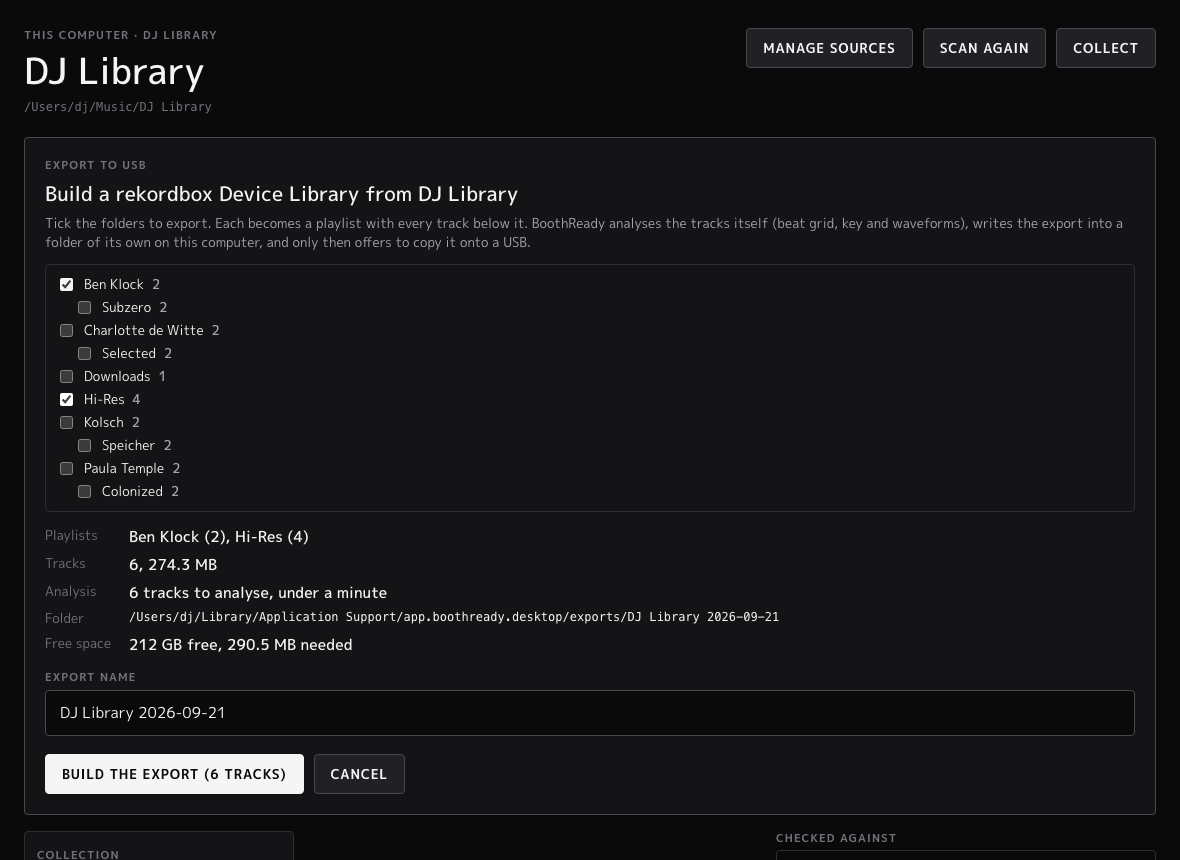
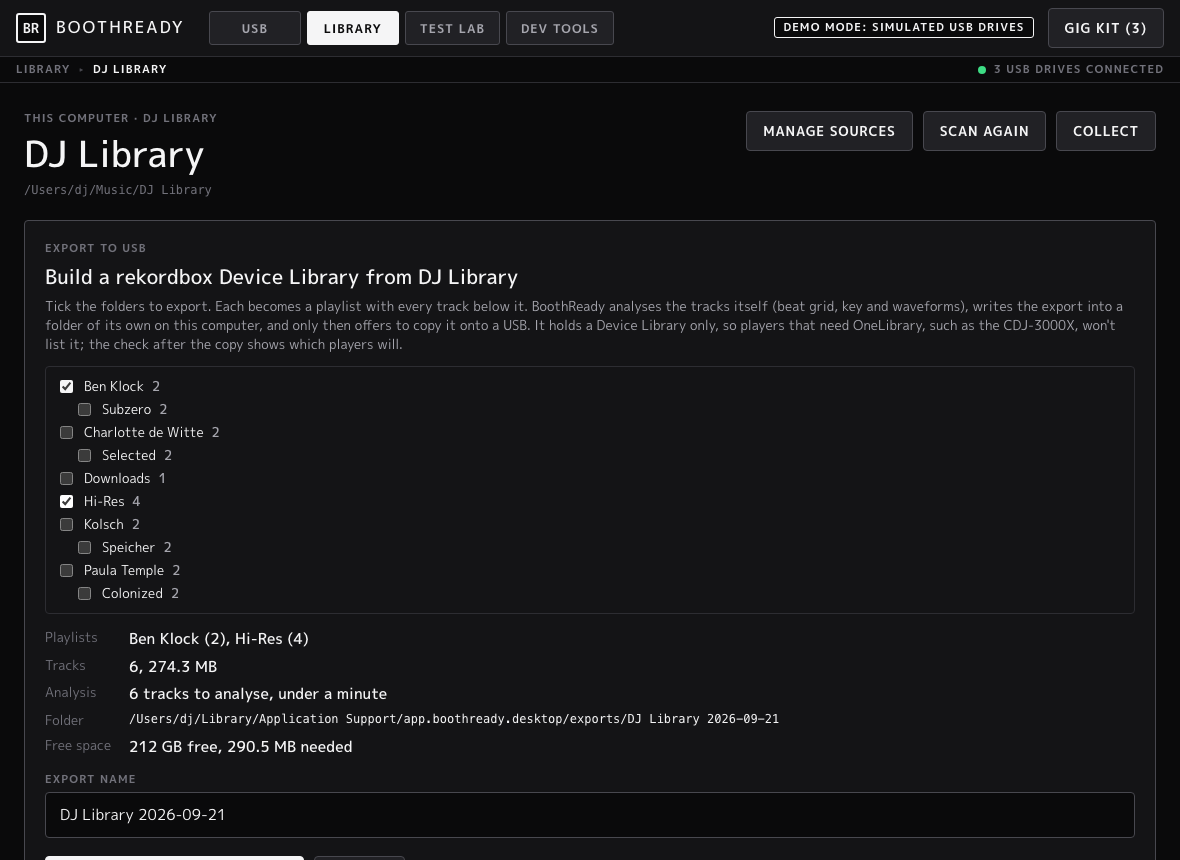
Fix what the demo and Drive runs of Export to USB turned up
Running the flow in the desktop app, in demo mode and against the Drive
library, showed that ticking a folder deep in a long list scrolled the
list back to the top, that Stop gave no sign of being pressed while the
current track finished, that a second export on the same day suggested a
taken name, and that the finished panel only mentioned failed analyses
in its notes. Scrolling boxes now keep their place across renders, the
ticked folder is scrolled into view, the panel says it is stopping,
suggested names take the next free number, and the panel says when
tracks could not be analysed and that the export holds a Device Library
only.

The export docs, the library sources page and the devlog describe the
app flow and both runs, with new screenshots.

diff --git a/app/src/library.ts b/app/src/library.ts
@@ -68,6 +68,8 @@ const L = {
     planning: boolean;
     name: string;
     running: boolean;
+    /** Stop was pressed; the writer stops after the track it is on. */
+    stopping: boolean;
     progress: LibraryExportProgress | null;
     error: string | null;
     done: LocalExport | null;
@@ -433,6 +435,7 @@ async function runExport() {
   const x = L.exp;
   if (!x || x.running || !x.plan) return;
   x.running = true;
+  x.stopping = false;
   x.error = null;
   x.progress = null;
   L.host.render();
@@ -442,6 +445,7 @@ async function runExport() {
     x.error = String(e);
   }
   x.running = false;
+  x.stopping = false;
   x.progress = null;
   await refreshLibrary();
   L.host.render();
@@ -598,17 +602,25 @@ export async function libraryAct(a: string, id: string): Promise<boolean> {
     case "library-export-open": {
       // The folder shown in the browser starts ticked; the whole source has no folder to tick.
       const folders = new Set<string>(L.folder ? [L.folder] : []);
-      L.exp = { sourceId: id, folders, plan: null, planning: false, name: "", running: false, progress: null, error: null, done: null };
+      L.exp = { sourceId: id, folders, plan: null, planning: false, name: "", running: false, stopping: false, progress: null, error: null, done: null };
       L.collect = null;
       await loadFolders(id);
       await planExport();
       host.render();
+      // Bring the ticked folder into view inside the folder list.
+      const box = document.querySelector<HTMLElement>('[data-keep-scroll="export-folders"]');
+      const ticked = box?.querySelector<HTMLElement>("input:checked")?.closest<HTMLElement>("label");
+      if (box && ticked) box.scrollTop += ticked.getBoundingClientRect().top - box.getBoundingClientRect().top - 8;
       return true;
     }
     case "library-export-start":
       await runExport();
       return true;
     case "library-export-stop":
+      if (L.exp?.running) {
+        L.exp.stopping = true;
+        host.render();
+      }
       await host.api.libraryCancelExport();
       return true;
     case "library-export-close":
@@ -970,8 +982,12 @@ function exportPanel(s: LibrarySource): Raw {
   if (!x || x.sourceId !== s.id) return html``;
   if (x.done) {
     const d = x.done;
+    const analysed = Math.floor(d.analysis_files / 3);
     return html`<section class="card export" aria-live="polite">
-      <div class="banner ok"><div style="flex:1"><b>Export built: ${plural(d.tracks, "track")} in ${plural(d.playlists, "playlist")}${d.analysis_files ? html`, with beat grids and waveforms for ${num(d.analysis_files / 3)} of them` : ""}.</b> It is on this computer as <span class="source-path">${d.path}</span>.</div></div>
+      <div class="banner ok"><div style="flex:1"><b>Export built: ${plural(d.tracks, "track")} in ${plural(d.playlists, "playlist")}${analysed ? html`, with beat grids and waveforms for ${analysed === d.tracks ? "all of them" : `${num(analysed)} of them`}` : ""}.</b> It is on this computer as <span class="source-path">${d.path}</span>.</div></div>
+      ${analysed < d.tracks
+        ? html`<div class="banner warn"><div>${analysed ? `${plural(d.tracks - analysed, "track")} couldn't be analysed` : "No track could be analysed"}, so players show no waveform or beat grid for ${analysed ? "them" : "any of them"}. The notes below say why.</div></div>`
+        : ""}
       <h2>Next: put it on a USB</h2>
       <p class="small muted">Open the USB tab and plug in a prepared USB. BoothReady offers to copy this export onto it, asks you to confirm that exact drive, and then reads every file back to check the copy. Nothing has been written to a USB yet.</p>
       ${d.warnings.length ? html`<details class="export-warnings"><summary>${plural(d.warnings.length, "note")}</summary><ul>${d.warnings.map((w) => html`<li>${w}</li>`)}</ul></details>` : ""}
@@ -992,7 +1008,7 @@ function exportPanel(s: LibrarySource): Raw {
       <div class="eyebrow">Building ${x.name}</div>
       <h2>${g ? EXPORT_PHASE[g.phase] : "Starting"}${g?.current ? html`<span class="muted export-current">: ${g.current}</span>` : ""}</h2>
       <div class="bar" role="progressbar" aria-valuemin="0" aria-valuemax="100" aria-valuenow="${pct}"><span style="width:${pct}%"></span></div>
-      <div class="collect-progress"><span>${g ? html`${num(Math.min(g.done + (g.phase === "database" || g.phase === "install" ? 0 : 1), total))} of ${plural(total, "track")}${eta ? html` · ${eta} left` : ""}` : "Reading the folders."}</span><button class="btn" data-act="library-export-stop">Stop</button></div>
+      <div class="collect-progress"><span>${g ? html`${num(Math.min(g.done + (g.phase === "database" || g.phase === "install" ? 0 : 1), total))} of ${plural(total, "track")}${eta ? html` · ${eta} left` : ""}` : "Reading the folders."}</span>${x.stopping ? html`<span class="muted">Stopping after this track.</span>` : html`<button class="btn" data-act="library-export-stop">Stop</button>`}</div>
       ${p?.cloud_only ? html`<p class="small muted">Your cloud app downloads ${plural(p.cloud_only, "track")} as they are read, so this step depends on your connection.</p>` : ""}
       <p class="small muted">Each track that hasn't been analysed before takes about ${roughTime(6).replace("under a minute", "six seconds")}. Stopping leaves nothing behind.</p>
     </section>`;
@@ -1003,8 +1019,8 @@ function exportPanel(s: LibrarySource): Raw {
   return html`<section class="card export">
     <div class="eyebrow">Export to USB</div>
     <h2>Build a rekordbox Device Library from ${s.name}</h2>
-    <p class="small muted">Tick the folders to export. Each becomes a playlist with every track below it. BoothReady analyses the tracks itself (beat grid, key and waveforms), writes the export into a folder of its own on this computer, and only then offers to copy it onto a USB.</p>
-    <div class="export-folders" role="group" aria-label="Folders to export">
+    <p class="small muted">Tick the folders to export. Each becomes a playlist with every track below it. BoothReady analyses the tracks itself (beat grid, key and waveforms), writes the export into a folder of its own on this computer, and only then offers to copy it onto a USB. It holds a Device Library only, so players that need OneLibrary, such as the CDJ-3000X, won't list it; the check after the copy shows which players will.</p>
+    <div class="export-folders" role="group" aria-label="Folders to export" data-keep-scroll="export-folders">
       ${folders.length
         ? folders.map((f, i) => html`<label class="check-row export-folder" style="--depth:${f.depth}"><input id="library-export-folder-${i}" type="checkbox" data-folder="${f.path}" ${x.folders.has(f.path) ? "checked" : ""} ${x.running ? "disabled" : ""}><span class="grow">${f.name}</span><b>${num(f.tracks)}</b></label>`)
         : html`<p class="small muted">This source has no folders to export as playlists.</p>`}
@@ -1015,7 +1031,7 @@ function exportPanel(s: LibrarySource): Raw {
           <dt>Playlists</dt><dd>${p.playlists.map((l) => `${l.name} (${num(l.tracks)})`).join(", ")}</dd>
           <dt>Tracks</dt><dd>${num(p.tracks)}, ${gb(p.bytes)}${p.left_out ? html` · <span class="muted">${plural(p.left_out, "file")} left out: damaged, not audio or a format a Device Library can't hold</span>` : ""}</dd>
           ${p.cloud_only ? html`<dt>From the cloud</dt><dd>${num(p.cloud_only)}, ${gb(p.cloud_only_bytes)}. Your cloud app downloads them as they are read.</dd>` : ""}
-          <dt>Analysis</dt><dd>${p.to_analyse ? html`${plural(p.to_analyse, "track")} to analyse, ${roughTime(p.estimate_secs)}` : "Nothing to analyse"}${p.analysed ? html` <span class="muted">· ${num(p.analysed)} already analysed for an earlier export</span>` : ""}</dd>
+          <dt>Analysis</dt><dd>${p.to_analyse ? html`${plural(p.to_analyse, "track")} to analyse, ${roughTime(p.estimate_secs)}` : "Nothing to analyse"}${p.analysed ? html` <span class="muted">· ${num(p.analysed)} already analysed on this computer</span>` : ""}</dd>
           <dt>Folder</dt><dd class="source-path">${p.destination}</dd>
           <dt>Free space</dt><dd>${p.free_bytes === null ? "unknown" : html`${gb(p.free_bytes)} free, ${gb(p.needed_bytes)} needed`}</dd>
         </dl>

diff --git a/app/src/app.ts b/app/src/app.ts
@@ -1666,8 +1666,15 @@ function body(): Raw {
 export function render() {
   const active = document.activeElement as HTMLElement | null;
   const focusId = active?.id;
+  // Scrolling boxes inside a screen keep their place across a re-render,
+  // so ticking a folder deep in a long list doesn't jump back to the top.
+  const scrolled = [...root().querySelectorAll<HTMLElement>("[data-keep-scroll]")].map((el) => [el.dataset.keepScroll, el.scrollTop] as const);
   root().innerHTML = shell(body()).s;
-  if (focusId) document.getElementById(focusId)?.focus();
+  for (const [key, top] of scrolled) {
+    const el = root().querySelector<HTMLElement>(`[data-keep-scroll="${key}"]`);
+    if (el) el.scrollTop = top;
+  }
+  if (focusId) document.getElementById(focusId)?.focus({ preventScroll: true });
   const search = document.getElementById("hwsearch") as HTMLInputElement | null;
   if (search && focusId === "hwsearch") {
     search.setSelectionRange(search.value.length, search.value.length);

diff --git a/app/src/mock.ts b/app/src/mock.ts
@@ -290,7 +290,10 @@ export async function createMockApi(): Promise<Api> {
     const sum = (list: LibraryTrack[]) => list.reduce((n, t) => n + t.size, 0);
     const online = unique.filter((t) => t.state === "cloud_only");
     const done = unique.filter((t) => analysed.has(`${id}|${t.path}`)).length;
-    const clean = (name.trim() || `${origin.name} 2026-09-21`).replace(/[^\p{L}\p{N} \-_().,&']/gu, "-").trim();
+    const tidy = (n: string) => n.replace(/[^\p{L}\p{N} \-_().,&']/gu, "-").trim();
+    // An empty name asks for a suggestion, numbered past the exports that took it.
+    let clean = tidy(name.trim() || `${origin.name} 2026-09-21`);
+    if (!name.trim()) for (let n = 2; exportsMade.some((e) => e.name === clean); n++) clean = tidy(`${origin.name} 2026-09-21 ${n}`);
     if (!clean) throw new Error("Give the export a name.");
     return {
       plan: {

diff --git a/app/src-tauri/src/export.rs b/app/src-tauri/src/export.rs
@@ -173,13 +173,13 @@ fn prepare(app: &AppHandle, state: &AppState, request: &ExportRequestDto) -> Res
         .collect();
     let collected = collect_from_lists(&lists).map_err(describe)?;
     let source_name = library::name_of_source(&selection.source);
-    let typed = if request.name.trim().is_empty() {
-        format!("{source_name} {}", library::date_of(now_unix()))
+    let root = exports_root(app, state)?;
+    let name = if request.name.trim().is_empty() {
+        suggested_name(&root, &format!("{source_name} {}", library::date_of(now_unix())))?
     } else {
-        request.name.clone()
+        library::collection_folder_name(&request.name)?
     };
-    let name = library::collection_folder_name(&typed)?;
-    let destination = exports_root(app, state)?.join(&name);
+    let destination = root.join(&name);
     let cache = analysis_cache_dir(app, state)?;
     let analysed = cached_analyses(&cache, &collected.tracks, Analysis::Normal) as u32;
     let tracks = collected.tracks.len() as u32;
@@ -217,6 +217,19 @@ fn prepare(app: &AppHandle, state: &AppState, request: &ExportRequestDto) -> Res
         free_bytes: space.map(|s| s.free_bytes),
     };
     Ok(Prepared { plan, selection, collected, destination, cache })
+}
+
+/// A free folder name under `root` for a suggested export name: the name
+/// itself, or the name followed by 2, 3 and so on when earlier exports took it.
+fn suggested_name(root: &Path, base: &str) -> Res<String> {
+    let base = library::collection_folder_name(base)?;
+    if !root.join(&base).exists() {
+        return Ok(base);
+    }
+    (2..1000)
+        .map(|n| format!("{base} {n}"))
+        .find(|name| !root.join(name).exists())
+        .ok_or_else(|| "Give the export a name.".to_string())
 }
 
 /// A scan's relative path as a path of the operating system.
@@ -376,5 +389,9 @@ mod tests {
         assert_eq!(listed[0].tracks, 3);
         assert!(list_exports(&tmp.path().join("missing")).is_empty());
         assert_eq!(rel_path("a/b/c.mp3"), PathBuf::from("a").join("b").join("c.mp3"));
+        assert_eq!(suggested_name(tmp.path(), "Fresh 2026-10-19").unwrap(), "Fresh 2026-10-19");
+        assert_eq!(suggested_name(tmp.path(), "Newer").unwrap(), "Newer 2", "a taken name gets a number");
+        std::fs::create_dir_all(tmp.path().join("Newer 2")).unwrap();
+        assert_eq!(suggested_name(tmp.path(), "Newer").unwrap(), "Newer 3");
     }
 }

diff --git a/docs/DEVLOG.md b/docs/DEVLOG.md
@@ -1,8 +1,34 @@
 # Devlog
 
-## 2026-10-19: Export to USB in the desktop app (branch claude/export-to-usb, in progress)
+## 2026-10-19: Export to USB in the desktop app (branch claude/export-to-usb)
 
-- The Library screen's source view gets an **Export to USB** panel: tick folders of a source (each becomes a playlist named after the folder), see the track count, the cloud-only count, files left out, the analysis estimate (six seconds per track not yet analysed, with an analysis cache under the app's data folder so a second export of the same tracks has nothing to analyse), the export folder and the free space, then build the Device Library into a fresh folder under `exports/` in the app's data folder with progress and a stop button.
-- The USB tab's export step offers finished exports to the copy flow next to verified drives (`export:<name>` sources). The copy uses the same confirmation and erase rules as before and hands over to verification.
-- Screenshots: `docs/screenshots/30-export-plan.png`, `32-export-done.png`, `33-export-copy-offer.png` (browser mock). `npm run check-ui` passes 599 checks including the new export screens.
-- Not yet done when this note was written: exercising demo mode in the Tauri window, the real export from the Drive folder, clippy on aarch64 and x86_64, cargo deny, and the pull request.
+### What was built
+
+- The Library screen's source view gets an **Export to USB** panel. Ticked folders become playlists named after them. Before anything is written, the panel shows the track count, how many tracks the cloud client will download, files left out, the analysis estimate (six seconds per track still to analyse), the export folder and the free space. The build goes into a fresh folder under `exports/` in the app's data folder, with progress and a stop button.
+- Analyses are cached under `analysis-cache/` next to the exports, so a second export of the same tracks, or a rerun after a stop, does not analyse them again.
+- The USB tab's export step offers finished exports to the copy flow next to verified drives. The copy keeps the existing plan, erase requirement and confirmation, and hands over to full verification.
+- `boothready export-pdb` and the app share the playlist collector and the removable-drive guard, now in `boothready_core::export::playlists`.
+
+### Demo mode in the desktop window
+
+The DJ Library demo source was exported with three ticked folders: Ben Klock, Kolsch and Downloads. The plan listed the empty Downloads playlist and counted its damaged file as left out. The build finished, and the copy offer appeared on the simulated Kingston once it had been rebuilt as MBR and FAT32. Copying five files was followed by a full verification that read the Device Library back ([34-demo-export-verified.png](screenshots/34-demo-export-verified.png)).
+
+The demo tracks are synthetic files under a second long, so the analyser declined every one ("beat analysis requires at least four seconds of audio"). The finished panel only listed this in its notes. It now says plainly when some or all tracks could not be analysed.
+
+### Real run against the Drive library
+
+The real app ran against the Google Drive `Music` source. It exported `DJ/TechnoRemix`: 8 tracks, all still online, 225 MB, into `exports/Music 2026-10-19`. No USB was written. Two sticks were plugged in and left alone.
+
+- A first attempt with the debug build analysed about one track a minute while CPU-bound. Stop finished the current track, removed the staging and export folders and kept the two analyses. The rerun with a release build used those two from the cache. It analysed the other six and downloaded them from Drive in about a minute. The six-second estimate holds for release builds only.
+- `boothready check-dir` on the result read a Device Library with 8 tracks and 24 analysis files. Library and audio passed for the CDJ-2000, CDJ-2000NXS2, CDJ-3000 and XDJ-XZ. The CDJ-3000X, CDJ-1500X and XDJ-AZ fail the library check because they need OneLibrary, which this writer does not produce. The panel now says the export holds a Device Library only.
+
+### Fixes the runs turned up
+
+- Ticking a folder deep in Jommi's folder list re-rendered the panel and scrolled the list back to the top. Scrolling boxes marked `data-keep-scroll` now keep their place across renders. Opening the panel from a folder in the tree scrolls that ticked folder into view.
+- Stop gave no sign it had been pressed while the current track finished. The panel now says "Stopping after this track."
+- A second export on the same day suggested a name that was already taken, so Build stayed disabled until the name was changed. Suggested names now take the next free number.
+- The plan's cache note said "already analysed for an earlier export", which was wrong after a stopped run. It now says "already analysed on this computer".
+
+### Screenshots
+
+These come from the browser mock: [30-export-plan.png](screenshots/30-export-plan.png), [31-export-building.png](screenshots/31-export-building.png), [32-export-done.png](screenshots/32-export-done.png), [33-export-copy-offer.png](screenshots/33-export-copy-offer.png). [34-demo-export-verified.png](screenshots/34-demo-export-verified.png) is from the desktop app in demo mode. Captures from the real run show private track names and stay out of the repository.

diff --git a/docs/EXPORT-PROVIDERS.md b/docs/EXPORT-PROVIDERS.md
@@ -54,6 +54,14 @@ cargo run -p boothready-cli -- check-dir <out dir>
 
 The command refuses an output folder on a USB or other removable drive, an output folder that already holds `Contents` or `PIONEER`, and one with the staging folder of an interrupted export in it, builds the tree in a staging folder inside the target, reads the database back through BoothReady's own reader and only then moves `Contents` and `PIONEER` into place. The finished folder goes onto a stick through `boothready copy`, so the device confirmation stays where it is. Nothing in this provider writes to a device.
 
+### In the desktop app
+
+The Library screen offers the same writer as **Export to USB** on any scanned source. Each ticked folder becomes a playlist named after the folder, holding every track below it that a Device Library can store; damaged files and other formats are counted as left out. Before anything is written, the panel shows the playlists, the track count, how many tracks the cloud client will download, the analysis estimate and the free space. The estimate is six seconds per track still to analyse, measured with release builds; a debug build of the analyser is many times slower.
+
+Each export goes into a new folder under `exports/` in the app's data folder (the demo folder in demo mode) and is refused when that folder exists, so an export is never written into an earlier one. A record of the export sits in `.boothready/export.json` inside it, which the copy planner skips. The analyser's ANLZ files are kept per track in `analysis-cache/` next to it, keyed by the file's resolved path, size, modification time and rhythm mode, so a track analysed for one export is not analysed again for the next. Stopping a build finishes the current track, removes the staging folder and the empty export folder, and keeps the analyses made so far.
+
+A finished export appears in the USB tab's export step as something to copy, next to verified drives. The copy goes through the same plan, erase requirement and confirmation as a drive-to-drive copy: a stick holding another library has to be erased first, so the export never lands beside or inside an existing library, and a full verification follows the copy.
+
 What this provider establishes and what it does not:
 
 - Fixture evidence only. The tests round-trip tracks, artists, albums, genres, keys and playlists through the reader and through rekordcrate, and the ANLZ files parse with the analyser's own readers. No CDJ or XDJ has read an export from it, so every target's hardware state stays unknown until a player test is recorded.

diff --git a/docs/LIBRARY-SOURCES.md b/docs/LIBRARY-SOURCES.md
@@ -26,6 +26,10 @@ The work is done by the staging engine with a list of selected files, so the cop
 
 A finished collection is added to the library as a source of its own and scanned. Its tracks are on this computer, so tracks that were listed as still in the cloud now have a checked format.
 
+## Exporting to a USB
+
+**Export to USB** on a source builds a rekordbox Device Library from ticked folders of that source, one playlist per folder, into a folder of its own on this computer. Tracks that are still in the cloud are read in full, which makes the cloud client download them, as collecting does. The finished export is then copied onto a prepared USB from the USB tab. [EXPORT-PROVIDERS.md](EXPORT-PROVIDERS.md#in-the-desktop-app) describes where exports and cached analyses are kept and how the copy is guarded.
+
 From the command line, `--only` stages chosen files and reads nothing else in the source:
 
 ```sh
